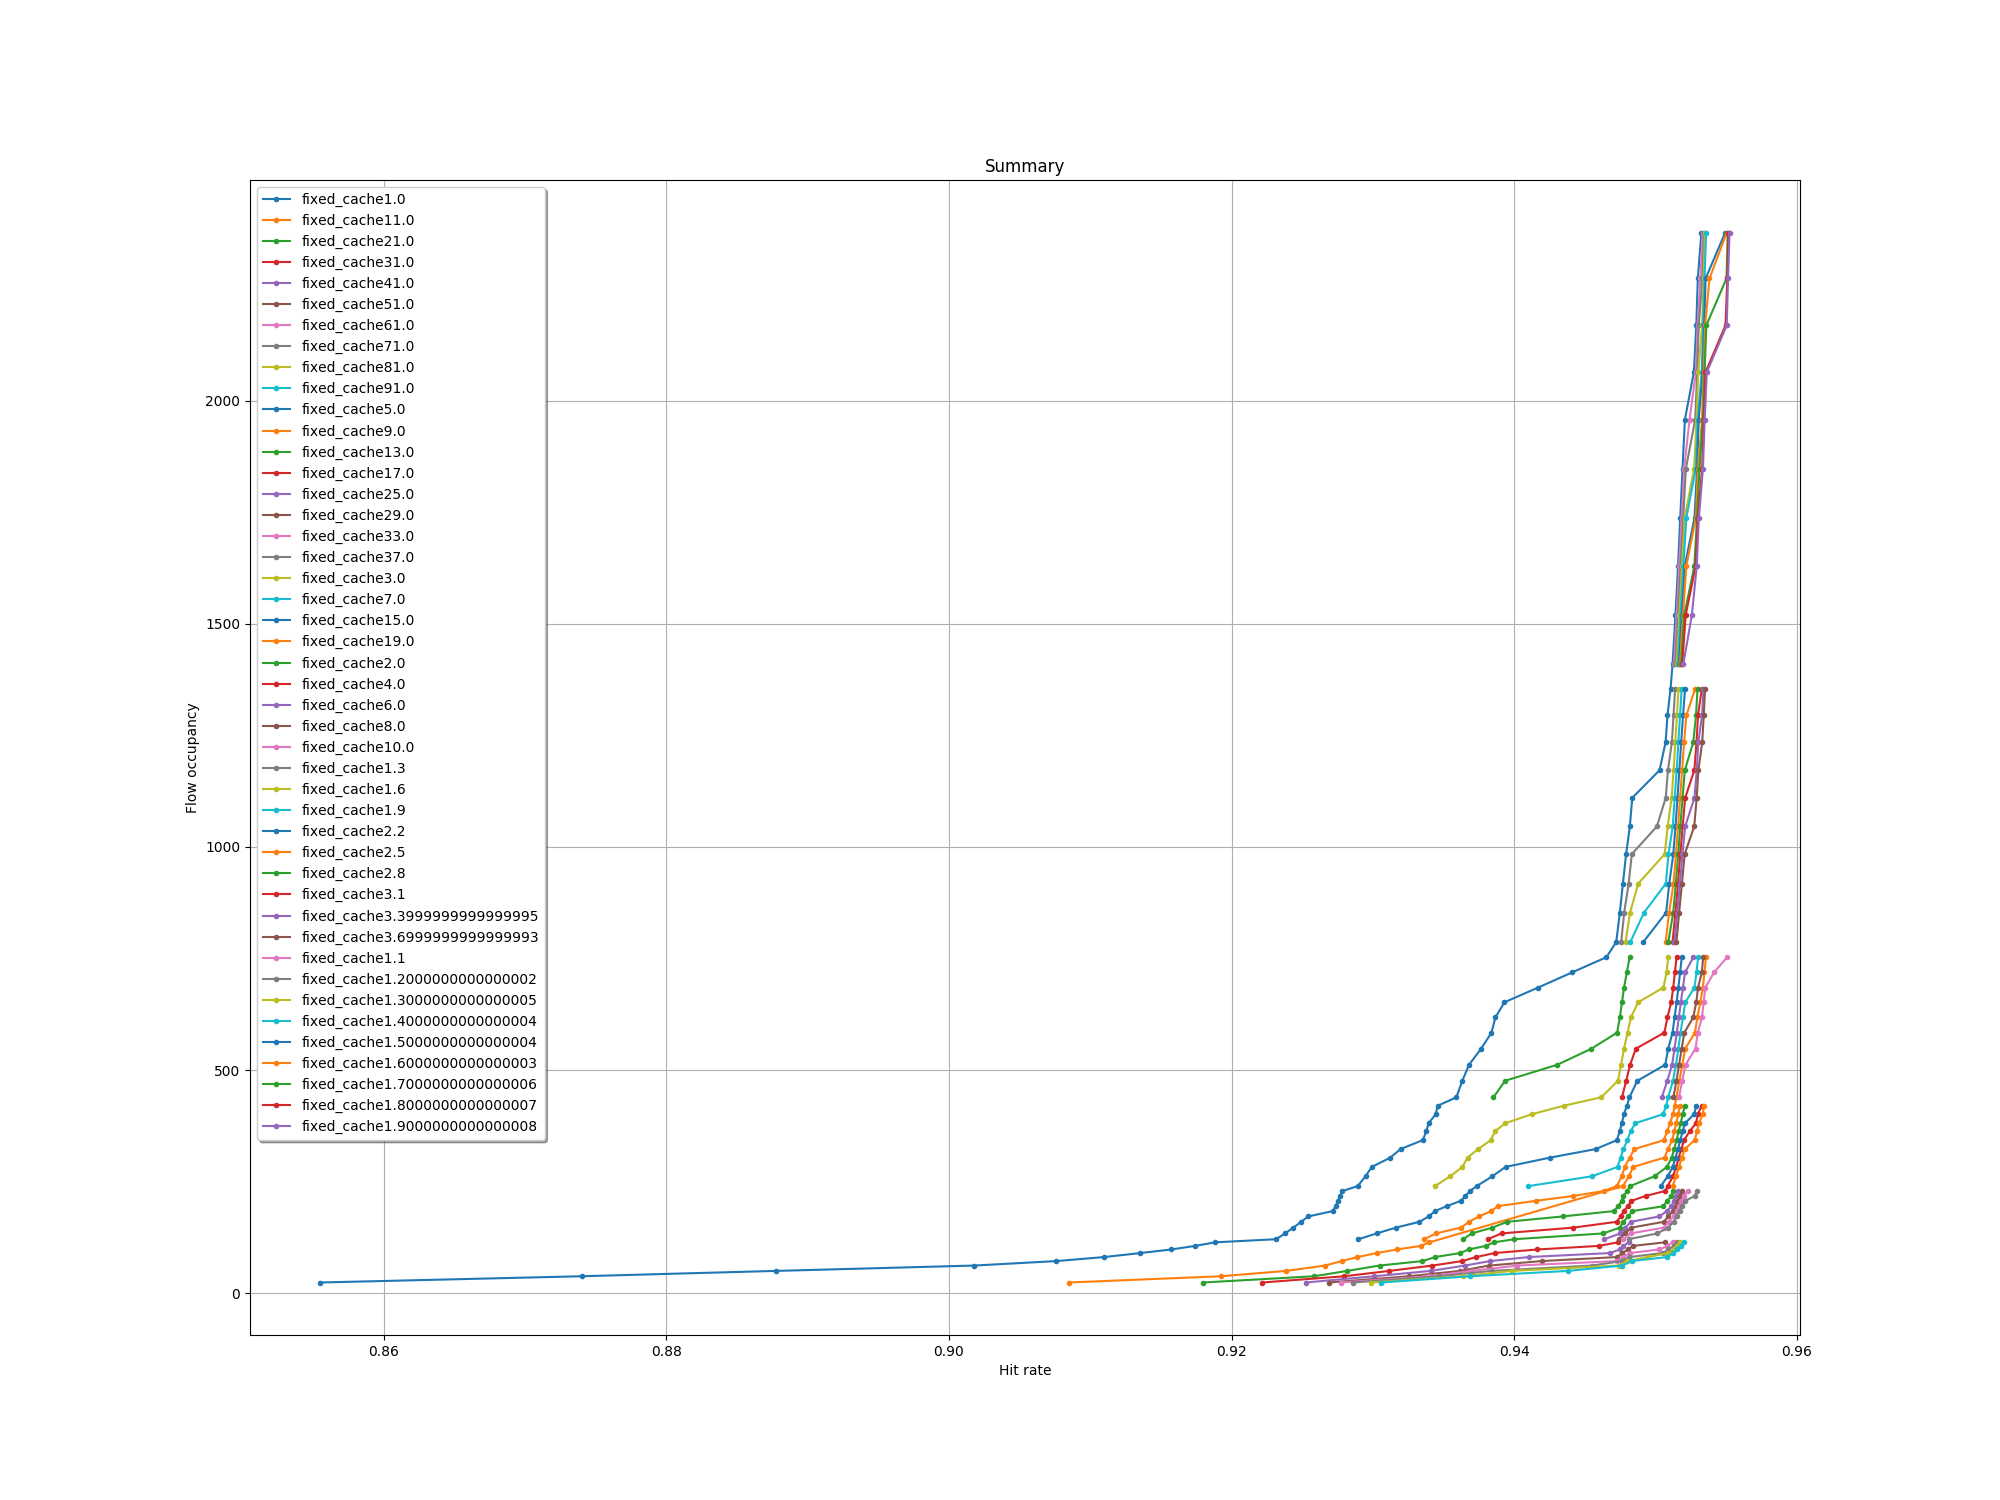
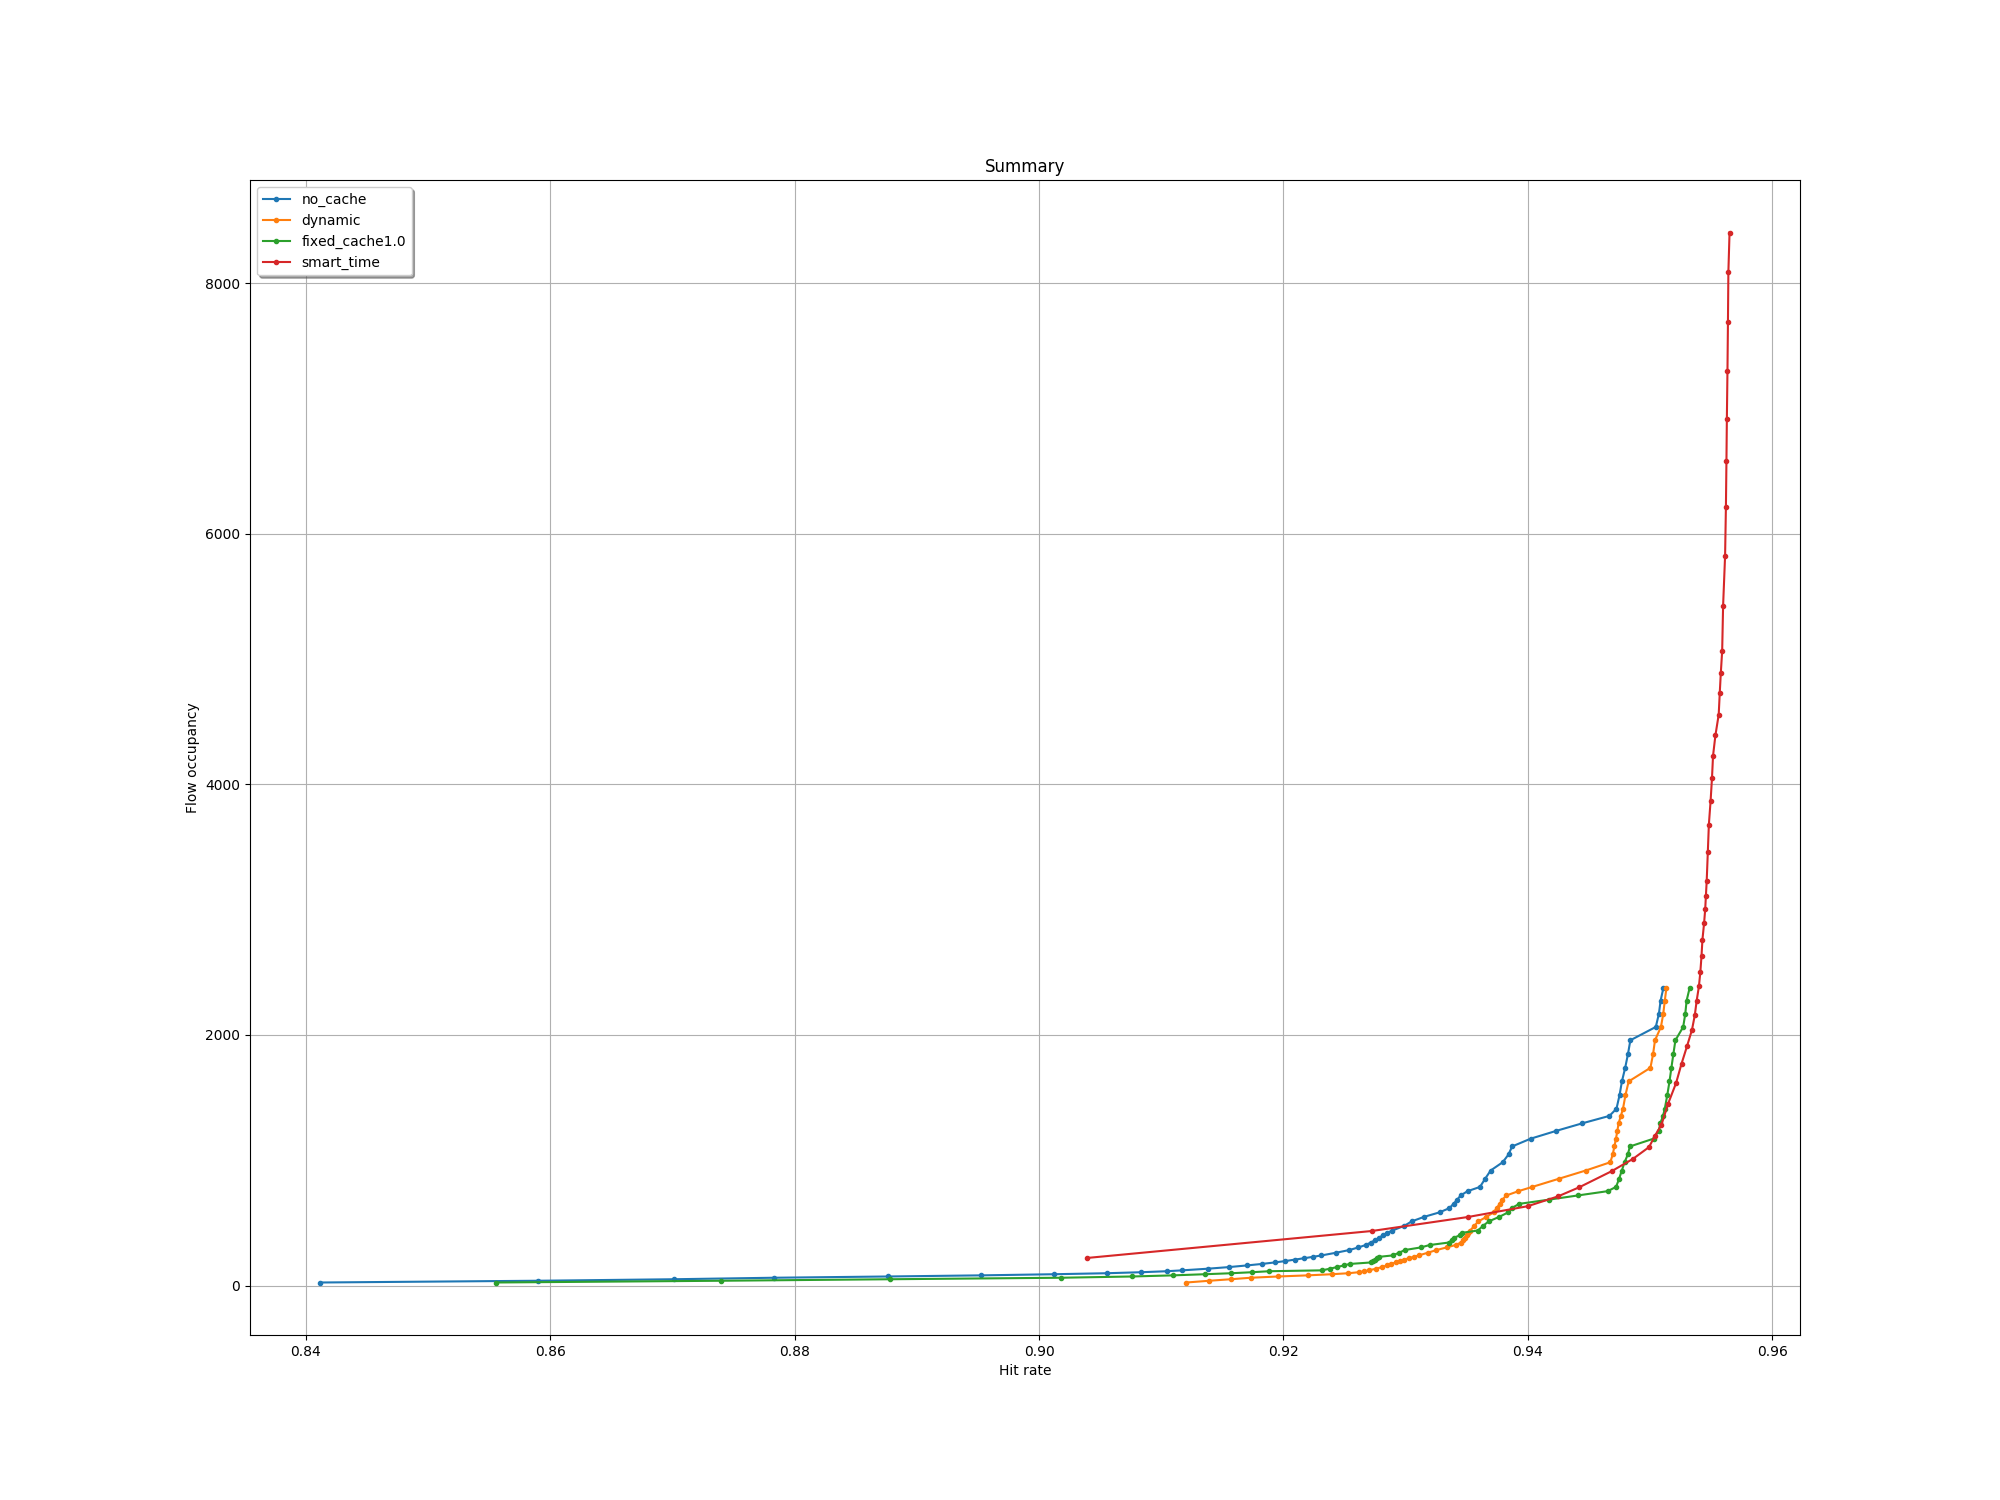
v2

Changed region(s): [[0.124, 0.1227, 0.279, 0.7667], [0.186, 0.1533, 0.868, 0.8587], [0.744, 0.644, 0.775, 0.6747]]

diff --git a/csv/csv_plot.py b/csv/csv_plot.py
@@ -21,8 +21,8 @@ packet_cat = ["max_packet", "99_packet", "95_packet", "mean_packet", "median_pac
 cache_cat = ["max_cache", "99_cache", "95_cache", "mean_cache", "median_cache"]
 
 # Find all file_cat
-file_cat = ["no_cache", "dynamic","fifo", "fixed_cache", "smart_time"]
-file_cat = ["fixed_cache"]
+file_cat = ["no_cache", "dynamic", "fixed_cache", "smart_time"]
+# file_cat = ["fixed_cache"]
 file_out = {}
 
 for category in file_cat:
@@ -37,19 +37,16 @@ for category in file_cat:
         multi = {}
         for i in range(N):
             cur_m = data[i, Q["multiplier"]]
-            if cur_m in multi.keys():
-                multi[cur_m].append(data[i, :])
-            else:
-                multi[cur_m] = [data[i, :]]
+            if cur_m == 1:
+                if cur_m in multi.keys():
+                    multi[cur_m].append(data[i, :])
+                else:
+                    multi[cur_m] = [data[i, :]]
         for cur_m in multi.keys():
             new_catname = category + str(cur_m)
             file_out[new_catname] = np.array(multi[cur_m])
             
-
-
-
-
-
+# Main table
 for cur_packet in packet_cat:
     fig, ax = plt.subplots()
     fig.set_size_inches(20, 15)
@@ -71,48 +68,23 @@ for cur_packet in packet_cat:
     plt.savefig(cur_packet + '_Summary')
     plt.close('all')
 
-for cur_packet in cache_cat:
+for cur_cache in cache_cat:
     fig, ax = plt.subplots()
     fig.set_size_inches(20, 15)
     for cur_cat in file_out.keys():
         data = file_out[cur_cat]
         hr = data[:, Q["all_hr"]]
-        packet = data[:, Q[cur_packet]]
+        cache = data[:, Q[cur_cache]]
 
         if linear:
-            ax.plot(hr, packet, label=cur_cat, marker='.')
+            ax.plot(hr, cache, label=cur_cat, marker='.')
         else:
-            ax.semilogx(hr, packet, label=cur_cat, marker='.')
+            ax.semilogx(hr, cache, label=cur_cat, marker='.')
 
     ax.legend(loc='upper left', shadow=True)
     ax.grid(which='both')
     plt.ylabel("Flow occupancy")
     plt.xlabel("Hit rate")
     plt.title("Summary")
-    plt.savefig(cur_packet + '_Summary')
+    plt.savefig(cur_cache + '_Summary')
     plt.close('all')
-
-
-fig, ax = plt.subplots()
-fig.set_size_inches(20, 15)
-for cur_cat in file_out.keys():
-    data = file_out[cur_cat]
-    hr = data[:, Q["all_hr"]]
-
-    cache = data[:, Q["mean_packet"]]
-    packet = data[:, Q["mean_cache"]]
-    ratio = cache / packet
-
-    if linear:
-        ax.plot(hr, ratio, label=cur_cat, marker='.')
-    else:
-        ax.semilogx(hr, packet, label=cur_cat, marker='.')
-
-ax.legend(loc='upper left', shadow=True)
-ax.grid(which='both')
-plt.ylabel("ratio")
-plt.xlabel("hr")
-plt.title("Summary")
-plt.savefig('_Summary')
-plt.close('all')
-        
